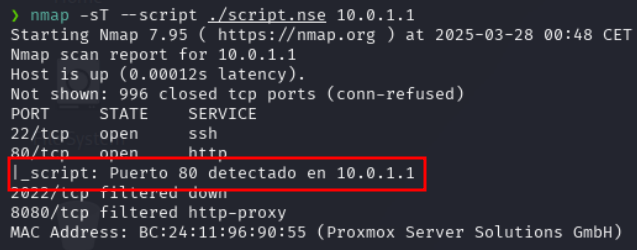
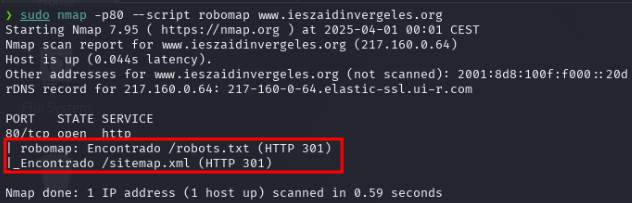
update

Changed region(s): [[0.0, 0.0296, 0.9921, 0.5616], [0.0, 0.5025, 0.9921, 0.9754], [0.6614, 0.0, 0.8418, 0.0296]]

diff --git a/_posts/2025-03-27-bypass_firewall_nmap.md b/_posts/2025-03-27-bypass_firewall_nmap.md
@@ -547,28 +547,88 @@ Esto le indica al kernel que 10.0.1.20 es una IP local, lo que permite enviar pa
 
 Desarrollar y probar un script básico NSE para ampliar las capacidades de nmap.
 
-Creamos un script de ejemplo:
+Creamos un script de ejemplo sencillo para escanear un host y verificar si existen y son accesibles los archivos `robots.txt` y `sitemap.xml`.
 
 ```lua
-description = [[Ejemplo de script NSE para detectar puerto 80]]
-author = "name"
-license = "Same as Nmap"
+---
+-- robots-sitemap-check.nse
+--
+-- Descripción:
+--   Script NSE para verificar si existen y son accesibles 'robots.txt' y 'sitemap.xml'
+--   en un servicio web.
+--
+-- Uso de ejemplo:
+--   nmap -p80,443 --script robots-sitemap-check <objetivo>
+--
+-- Autor: (sdksdk)
+-- Licencia: Igual que la de Nmap (https://nmap.org/book/man-legal.html)
+--
+
+local http = require "http"
+local shortport = require "shortport"
+local stdnse = require "stdnse"
+
+description = [[
+Comprueba si un servidor web responde con éxito (HTTP 2xx/3xx) al solicitar
+/robots.txt y /sitemap.xml, reportando si se detectan dichos archivos.
+]]
+
 categories = {"discovery"}
 
-portrule = function(host, port)
-  return port.number == 80
+-- Regla de puerto: ejecuta el script en servicios que Nmap identifique como HTTP
+portrule = shortport.http
+
+-- Función auxiliar para comprobar un recurso
+local function check_resource(host, port, path)
+  local resp = http.get(host, port, path)
+  if resp and resp.status and resp.status < 400 then
+    -- Se considera "encontrado" si HTTP status es < 400
+    -- (p.e. 200 OK, 301 Moved, etc.)
+    return true, resp.status
+  else
+    return false, resp and resp.status or nil
+  end
 end
 
 action = function(host, port)
-  return "Puerto 80 detectado en " .. host.ip
+  local results = {}
+
+  -- 1) Comprobar /robots.txt
+  local found_robots, status_robots = check_resource(host, port, "/robots.txt")
+  if found_robots then
+    table.insert(results, string.format("Encontrado /robots.txt (HTTP %d)", status_robots))
+  else
+    table.insert(results, "/robots.txt no accesible (404/403/...)")
+  end
+
+  -- 2) Comprobar /sitemap.xml
+  local found_sitemap, status_sitemap = check_resource(host, port, "/sitemap.xml")
+  if found_sitemap then
+    table.insert(results, string.format("Encontrado /sitemap.xml (HTTP %d)", status_sitemap))
+  else
+    table.insert(results, "/sitemap.xml no accesible (404/403/...)")
+  end
+
+  return table.concat(results, "\n")
 end
+
 ```
 
-Lo guardamos con extension .nse
+Copiar, actualizar y ejecutar el script:
 
-```bash
-nmap -sT --script ./script.nse 10.0.1.1
-```
+  - Copia el archivo en el directorio de scripts de Nmap.
+
+    `sudo cp robomap.nse /usr/share/nmap/scripts/`
+
+  - Actualiza el índice de scripts:
+
+    `sudo nmap --script-updatedb`
+
+  - Para escanear host(s) en puertos 80 y 443:
+
+    `nmap -p80,443 --script robots-sitemap-check <objetivo>`
+
+Si un servidor responde en otro puerto (por ejemplo, 8080) y Nmap lo detecta como HTTP, también ejecutará el script en ese puerto.
 
 ![alt text](/assets/img/posts/nmap_firewall_bypass/image-29.png)
 
